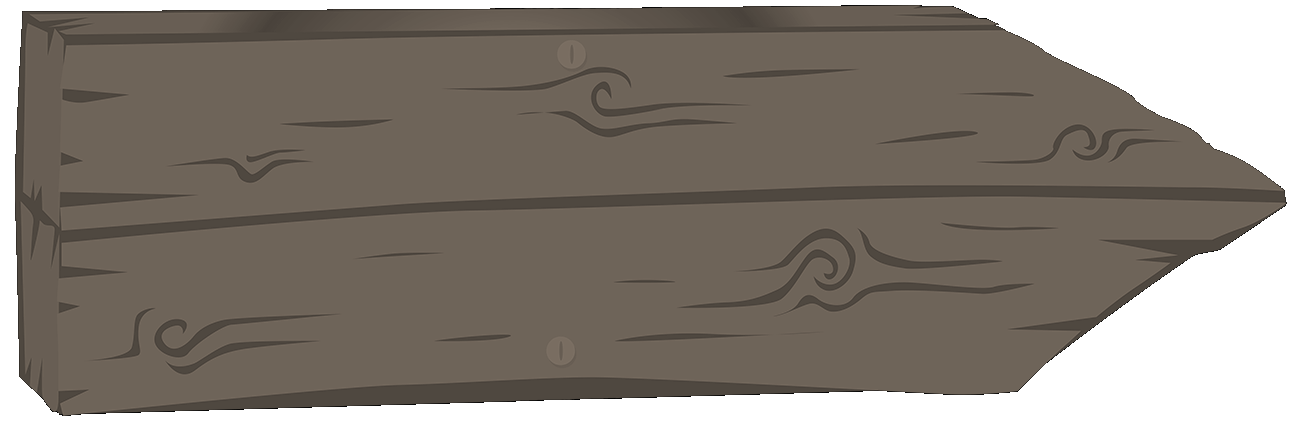
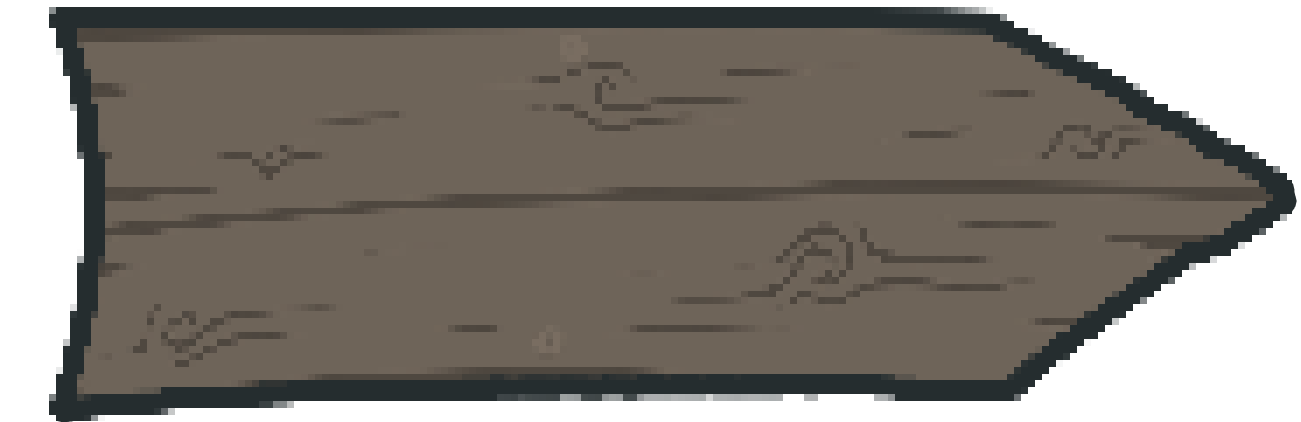
Updated arts for arrow and whitepaper button

diff --git a/components/Mark.tsx b/components/Mark.tsx
@@ -95,8 +95,12 @@ export const Mark = () => {
                                         initial='hidden'
                                         animate='show'
                                         whileHover={{ scale: 1.1 }}
-                                        className='bg-amber-300 text-2xl text-white font-bold px-7 rounded-xl h-[50px] flex items-center whitelist-button'>
-                                        <Link href={'/whitepaper'}>Whitepaper</Link>
+                                        className='h-[50px] flex items-center whitelist-button cursor-pointer'>
+                                        <Link href={'/whitepaper'}>
+                                            <div className='h-[50px] w-[120px] flex items-center whitelist-button cursor-pointer'>
+                                                <Image src='/images/whitepaper-button.png' layout='fill' objectFit='contain' />
+                                            </div>
+                                        </Link>
                                     </motion.div>
                                     <motion.a
                                         href='https://twitter.com/MinerVerseNFT'
